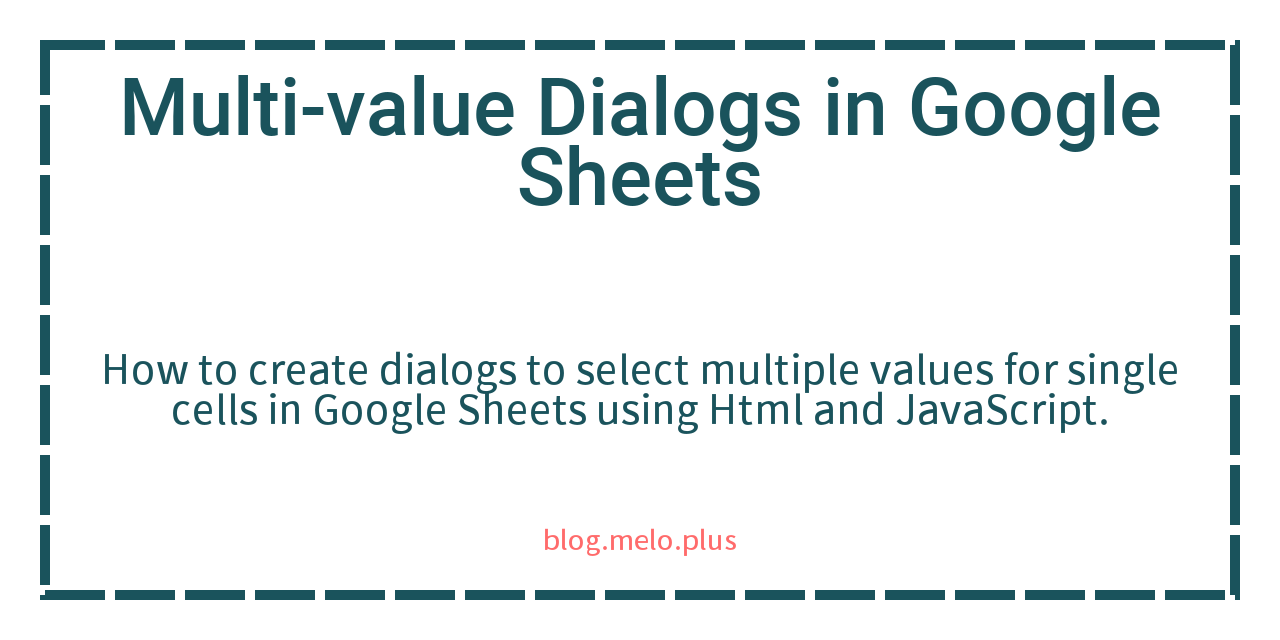
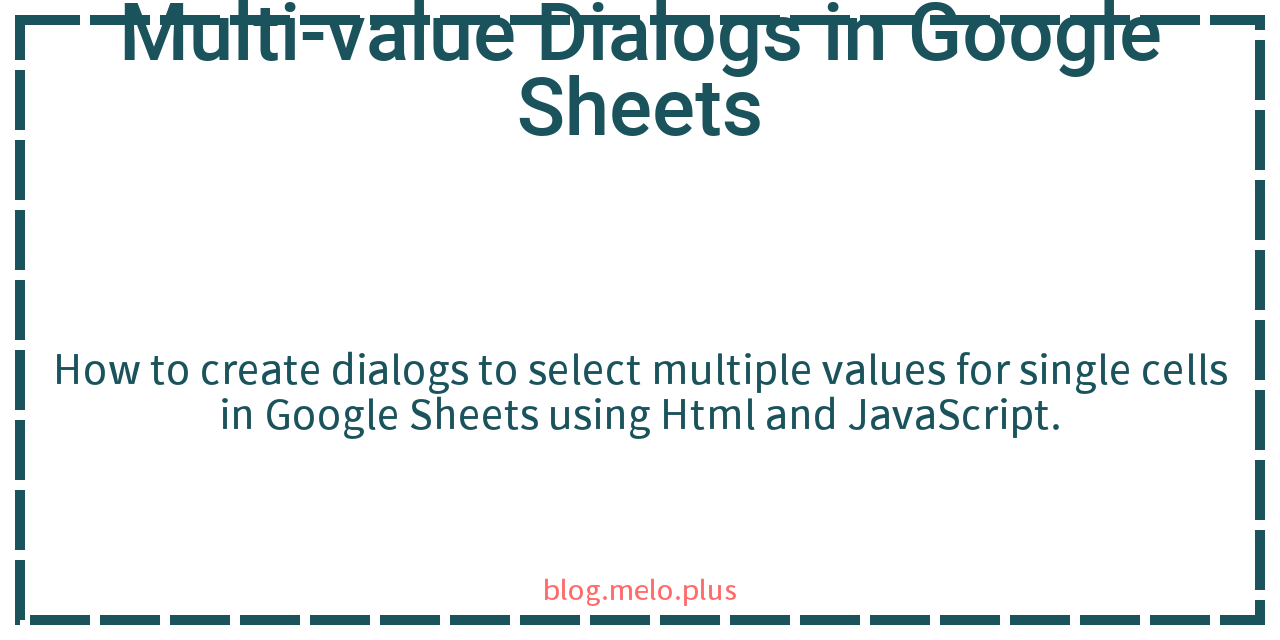
smaller border and bigger line gap

Changed region(s): [[0.0, 0.0, 1.0, 1.0], [0.4375, 0.8125, 0.5625, 0.875]]

diff --git a/config/create-cover.js b/config/create-cover.js
@@ -21,7 +21,7 @@ module.exports = function createCover(data) {
   context.fillRect(0, 0, width, height);
 
   // create dashed border
-  const margin = 45;
+  const margin = 20;
   context.lineWidth = 10;
   context.setLineDash([60, 10]);
   context.strokeStyle = "#1A535C"
@@ -63,7 +63,7 @@ function calcSitePath(inputPath) {
 };
 
 function fillText(ctx, text, x, y, maxWidth) {
-  const lineGap = 10;
+  const lineGap = 15;
   const fontHeight = parseInt(ctx.font.match(/\d+/), 10);
   const lineHeight =  fontHeight + lineGap;
   const wrapedText = parseLines(ctx, text, maxWidth);
